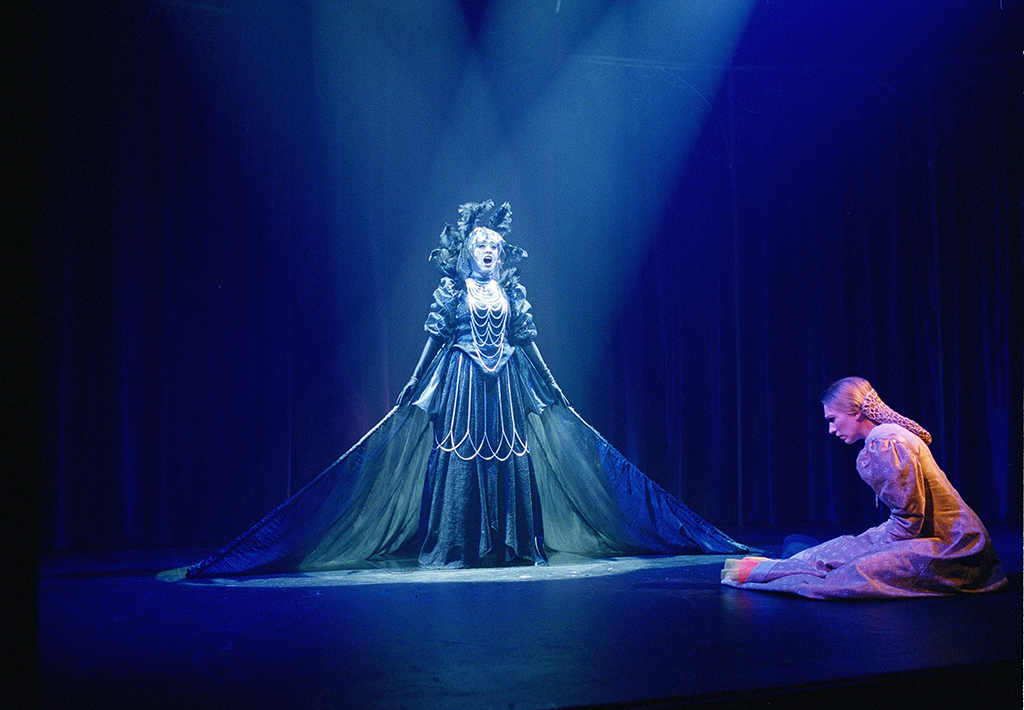
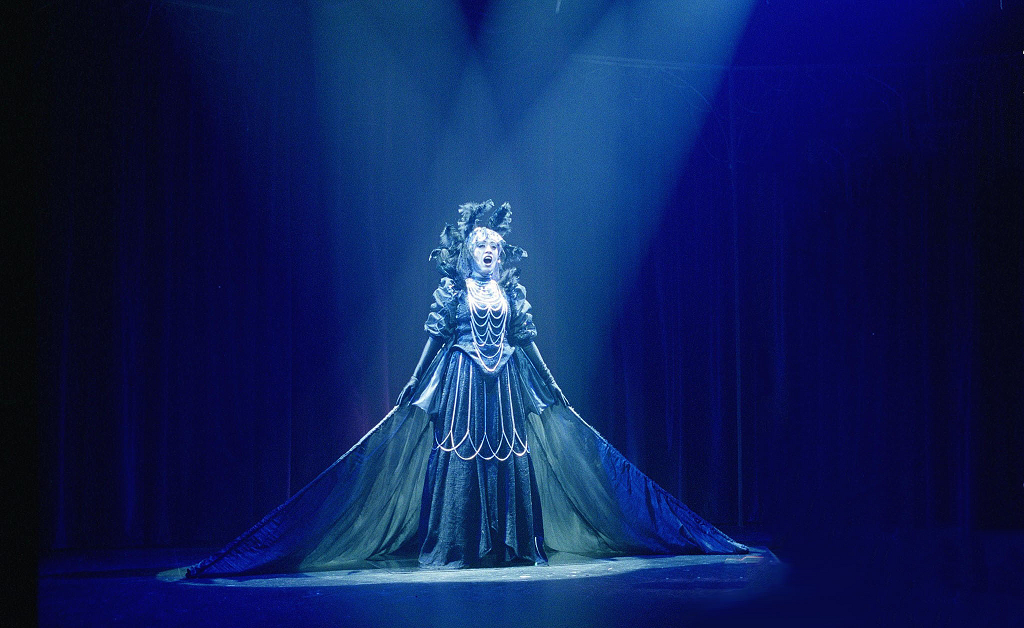
changed navigation blur, changed photo on schedule subpage,

Changed region(s): [[0.0312, 0.2723, 1.0, 1.0]]

diff --git a/css/style.css b/css/style.css
@@ -221,7 +221,8 @@ header.contactHeader {
 .logo-nav-wrapper {
     background-color: rgba(var(--white-rgba), 0.7);
     padding-top: 15px;
-    box-shadow: 0px 0px 9px 10px rgba(var(--white-rgba), 0.7);
+    padding-bottom: 15px;
+    /*box-shadow: 0px 0px 9px 10px rgba(var(--white-rgba), 0.7);*/
 }
 
 /*logo*/
@@ -1540,7 +1541,7 @@ footer {
 
 .booking-container {
     height: 55vh;
-    background-image: url("../images/chicago-94510_1920.jpg");
+    background-image: url("../images/gudrun_schedule.jpg");
     background-repeat: no-repeat;
     background-size: cover;
     background-position: center;
@@ -1622,17 +1623,25 @@ footer {
     .booking-buttons-wrap {
         grid-template-columns: repeat(1, 1fr);
         grid-template-rows: repeat(3, 1fr);
-        height: 300px;
+        height: 250px;
         grid-auto-flow: row;
     }
 
+    .booking-container {
+
+        background-image: url("../images/gudrun_schedule2.jpg");
+
+    }
+
+
     .booking-buttons-wrap div:first-child {
         grid-column-end: span 1;
+        text-align: center;
     }
 
     .btn-to-repertoire-wrap > button,
     .btn-to-contact-wrap > button {
-        margin-top: 2rem;
+        margin-top: 0;
         margin-bottom: 1rem;
     }
 

diff --git a/pages/press.html b/pages/press.html
@@ -4,7 +4,9 @@
     <meta charset="utf-8">
     <meta name="viewport" content="width=device-width, initial-scale=1.0">
     <meta name="description" content="        " />
-     <link href="https://fonts.googleapis.com/css2?family=Crimson+Pro:ital,wght@0,400;0,500;0,600;1,400;1,500;1,600&family=Crimson+Text:ital,wght@0,400;0,600;0,700;1,400;1,600;1,700&display=swap" rel="stylesheet">
+    <link href="https://fonts.googleapis.com/css2?family=Crimson+Pro:ital,wght@0,400;0,500;0,600;1,400;1,500;1,600&family=Crimson+Text:ital,wght@0,400;0,600;0,700;1,400;1,600;1,700&display=swap" rel="stylesheet">
+    <link rel="icon" type="image/png" href="../images/favicon-32x32.png" sizes="32x32" />
+    <link rel="icon" type="image/png" href="../images/favicon-16x16.png" sizes="16x16" />
 
     <title>Press featuring Gudrun</title>
     <link rel="stylesheet" href="../css/style.css">

diff --git a/pages/repertoire.html b/pages/repertoire.html
@@ -5,6 +5,8 @@
     <meta name="viewport" content="width=device-width, initial-scale=1.0">
     <meta name="description" content="        " />
     <link href="https://fonts.googleapis.com/css2?family=Crimson+Pro:ital,wght@0,400;0,500;0,600;1,400;1,500;1,600&family=Crimson+Text:ital,wght@0,400;0,600;0,700;1,400;1,600;1,700&display=swap" rel="stylesheet">
+    <link rel="icon" type="image/png" href="../images/favicon-32x32.png" sizes="32x32" />
+    <link rel="icon" type="image/png" href="../images/favicon-16x16.png" sizes="16x16" />
     <title>Gudrun Ingimars Repertoire</title>
     <link rel="stylesheet" href="../css/style.css">
 </head>

diff --git a/pages/contact-gudrun-ingimars.html b/pages/contact-gudrun-ingimars.html
@@ -6,6 +6,8 @@
     <meta name="viewport" content="width=device-width, initial-scale=1.0">
     <meta name="description" content="        " />
     <link href="https://fonts.googleapis.com/css2?family=Crimson+Pro:ital,wght@0,400;0,500;0,600;1,400;1,500;1,600&family=Crimson+Text:ital,wght@0,400;0,600;0,700;1,400;1,600;1,700&display=swap" rel="stylesheet">
+    <link rel="icon" type="image/png" href="../images/favicon-32x32.png" sizes="32x32" />
+    <link rel="icon" type="image/png" href="../images/favicon-16x16.png" sizes="16x16" />
 
     <title>Contact Gudrun Ingimars</title>
     <link rel="stylesheet" href="../css/style.css">

diff --git a/pages/about-gudrun-ingimars.html b/pages/about-gudrun-ingimars.html
@@ -6,6 +6,8 @@
     <meta name="viewport" content="width=device-width, initial-scale=1.0">
     <meta name="description" content="        " />
     <link href="https://fonts.googleapis.com/css2?family=Crimson+Pro:ital,wght@0,400;0,500;0,600;1,400;1,500;1,600&family=Crimson+Text:ital,wght@0,400;0,600;0,700;1,400;1,600;1,700&display=swap" rel="stylesheet">
+    <link rel="icon" type="image/png" href="../images/favicon-32x32.png" sizes="32x32" />
+    <link rel="icon" type="image/png" href="../images/favicon-16x16.png" sizes="16x16" />
 
     <title>About Gudrun Ingimars</title>
     <link rel="stylesheet" href="../css/style.css">

diff --git a/pages/music.html b/pages/music.html
@@ -6,6 +6,8 @@
     <meta name="viewport" content="width=device-width, initial-scale=1.0">
     <meta name="description" content="        " />
     <link href="https://fonts.googleapis.com/css2?family=Crimson+Pro:ital,wght@0,400;0,500;0,600;1,400;1,500;1,600&family=Crimson+Text:ital,wght@0,400;0,600;0,700;1,400;1,600;1,700&display=swap" rel="stylesheet">
+    <link rel="icon" type="image/png" href="../images/favicon-32x32.png" sizes="32x32" />
+    <link rel="icon" type="image/png" href="../images/favicon-16x16.png" sizes="16x16" />
 
     <title>Gudrun Ingimars Music</title>
     <link rel="stylesheet" href="../css/style.css">

diff --git a/index.html b/index.html
@@ -5,6 +5,8 @@
     <meta name="viewport" content="width=device-width, initial-scale=1.0">
     <meta name="description" content="        " />
     <link href="https://fonts.googleapis.com/css2?family=Crimson+Pro:ital,wght@0,400;0,500;0,600;1,400;1,500;1,600&family=Crimson+Text:ital,wght@0,400;0,600;0,700;1,400;1,600;1,700&display=swap" rel="stylesheet">
+    <link rel="icon" type="image/png" href="images/favicon-32x32.png" sizes="32x32" />
+    <link rel="icon" type="image/png" href="images/favicon-16x16.png" sizes="16x16" />
 
     <title>Gudrun Ingimars</title>
     <link rel="stylesheet" href="css/style.css">

diff --git a/pages/schedule.html b/pages/schedule.html
@@ -8,6 +8,9 @@
 
     <title>Gudrun Ingimars Schedule</title>
     <link rel="stylesheet" href="../css/style.css">
+    <link rel="icon" type="image/png" href="../images/favicon-32x32.png" sizes="32x32" />
+    <link rel="icon" type="image/png" href="../images/favicon-16x16.png" sizes="16x16" />
+
 </head>
 
 <body class="SchedulePage">
